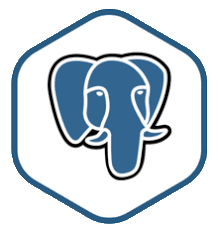
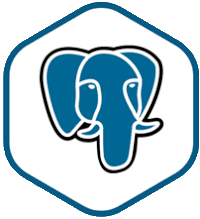
cambio iconos y efecto hover

diff --git a/styles.css b/styles.css
@@ -1,144 +1,20 @@
-/* body {
-background-color:#5a5a5a;
-margin: 0 0 0 0;
-
-}
-.personal_info{
-margin-left:5%;
-width: 30%;
-height:90vh;
-background-color: aqua;
-margin-right: 0%;
-margin-top: 5vh;
-border:10px;
-
-}
-
-.photo{
-background-color: rgb(32, 170, 32);
-padding-bottom: 45vh;
-}
-.info_text{
-background-color: blue;
-padding-bottom: 35%;
-}
-
-/*.hexagon {
-  position: relative;
-  width: 30vh;
-  height: 15vh;
-  background-color: #64C7CC;
-  margin: 86.60px 0;
-  }
-  
-  .hexagon:before,
-  .hexagon:after {
-    content: "";
-    position: absolute;
-    width: 0;
-    border-left: 15vh solid transparent;
-    border-right: 15vh solid transparent;
-  }
-  
-  .hexagon:before {
-    bottom: 100%;
-    border-bottom: 7.5vh solid #64C7CC;
-  }
-  
-  .hexagon:after {
-    top: 100%;
-    width: 0;
-    border-top: 7.5vh solid #64C7CC;
-  }
-
-.hx{
-margin: 0%;
-
-}
-.hexagon{
-background-color: aqua;
-width: 100px;
-height: 25vh;
-}
-.text{
-list-style: none;
-text-align: center;
-padding-inline-start: 0px;
-margin-top: auto;
-padding-top: 10%;
-
-}
-.text li{
-  margin-bottom: 10%;
-
-
-}
-
-.hx{
-position: absolute;
-top:38%;
-left:50%;
-margin;0;
-padding:0;
-
-}
-.hx li{
-list-style: none;
-position: absolute
-}
-ul li.it1{
-top:-30vh;
-left: -15vh;
[1 lines of base64/hex data omitted]
-}
-ul li.it2{
-  top: -30vh;
-  left: 16vh;
-}
-ul li.it3{
-  top: -30vh;
-  left:47vh;
-}
-
-ul li.it4{
-  top: -6.5vh;
-  left: 0.5vh;
-}  
-ul li.it5{
-  top: -6.5vh;
-  left:31.5vh;  
-}
-
-ul li.it6{
-  top: 17vh;
-  left:-15vh;
-}
-ul li.it7{
-  top: 17vh;
-  left:16vh;
-}
-ul li.it8{
-  top: 17vh;
-  left:47vh;
-}*/
-
-body{
+body{
 
 
 }
 .container{
-margin: 20px auto;
+margin: 10px auto;
 display: grid;
-grid-gap: 20px;
-grid-template-columns: repeat(3,1fr);
+grid-gap: 30px;
+grid-template-columns:25% 32.5% 32.5%;
 width: 100%;
-height: 600px;
+height:300px;
 
 }
 .container >div,
 .container .personal_info,
 .container .items{
-background:blue;
+background:none;
 
 }
 
@@ -151,36 +27,97 @@ grid-column-end: 2;
 .container .items{
   grid-column: span 2;
   grid-row: span 2;
+  place-items: center;
 
 }
 .personal_info{
   display: grid;
   grid-template-rows: repeat(2,1fr);
   grid-row: span 2;
+  border: 2px solid darkturquoise;
+  border-radius: 5px;
 }
 
 
 .photo{
  grid-row: span 1;
-  background: chartreuse;
+  background: none;
+  height:100px;
+
 }
 .info_text{
   grid-row: span 1;
   background: white;
+  display: grid;
+  grid-template-rows: 50% 50%;
+}
+.text{ 
+  list-style: none;
+  text-align: center;
+  display: initial;
 }
 
 .items{
+  margin-top: 2%;
 display: grid;
-grid-template-rows: repeat(3,1fr);
+grid-template-rows: repeat(2,1fr);
 grid-template-columns: repeat(3,1fr);
-grid-gap: 10px;
+grid-gap: 20px;
+
+
 }
 .image{
-
+  width: 100%;
   display: block;
+  object-fit: cover;
+  place-items: center;
+}
+.personal_image{
+  align-items: center; 
+  justify-content: center;;
+ width: 100%;
+
+ border-top-left-radius: 3px;
+ border-top-right-radius: 3px;
+
+}
+.others{
+background-color: blueviolet;
+border-radius: 10px;
+}
+
+
+.overlay {
+  position: absolute;
+  background-color: #05FFD0;
+  overflow: hidden;
   width: 100%;
   height: 100%;
-  object-fit: cover;
+  -webkit-transform: scale(0);
+  -ms-transform: scale(0);
+  transform: scale(0);
+  -webkit-transition: .3s ease;
+  transition: .3s ease;
+}
 
+.cont_hover:hover .overlay {
+  -webkit-transform: scale(1);
+  -ms-transform: scale(1);
+  transform: scale(1);
+ 
+}
+.cont_hover{
+  position: relative;
+}
+.item_text{
+  color: black;
+  font-size: 20px;
+  position: absolute;
+  top: 50%;
+  left: 50%;
+  -webkit-transform: translate(-50%, -50%);
+  -ms-transform: translate(-50%, -50%);
+  transform: translate(-50%, -50%);
+  text-align: center;
 
 }

diff --git a/yirox_page.html b/yirox_page.html
@@ -14,11 +14,11 @@
 <body>
     <div class="container">
     <div class="personal_info">
-        <div class="photo">
+        <div class="photo"><img src="jairo.jpg" class="personal_image">
         
         </div>
         <div class="info_text">
-            <ul class="text">
+            <div class="text">
                 <li> JAIRO ALONSO RINCON DIAZ
                 </li>
                 <li>jairo50333@gmail.com
@@ -27,28 +27,23 @@
                 </li>
                 <li>
                     Ingenieria de software
-
                 </li>
 
-            </ul>
-
+            </div>
+            <div class= "others"></div>
         </div>
        
     </div>
 
 <div class="items">
-<div class="it1"><div class="hexagon"><img src="js.png" class="image"></div></div>
-<div class="it1"><div class="hexagon"><img src="css.png" class="image"></div></div>
-<div class="it1"><div class="hexagon"><img src="html.png" class="image"></div></div>
-<div class="it1"><div class="hexagon"><img src="Csharp.png" class="image"></div></div>
-<div class="it1"><div class="hexagon"><img src="postgresql.png" class="image"></div></div>
-<div class="it1"><div class="hexagon"><img src="c++.png" class="image"></div></div>
-<div class="it1"><div class="hexagon"></div></div>
-<div class="it1"><div class="hexagon"></div></div>
+<div class="cont_hover"> <div class="overlay"><div class="item_text">hola</div></div><img src="js.png" class="image"></div>
+<div class="cont_hover"> <div class="overlay"><div class="item_text">bebe</div></div><img src="css.png" class="image"></div>
+<div class="cont_hover"> <div class="overlay"><div class="item_text">pasaba por aqui</div></div><img src="html.png" class="image"></div>
+<div class="cont_hover"> <div class="overlay"><div class="item_text">para </div></div><img src="Csharp.png" class="image"></div>
+<div class="cont_hover"> <div class="overlay"><div class="item_text">recordarte que</div></div><img src="postgresql.png" class="image"></div>
+<div class="cont_hover"> <div class="overlay"><div class="item_text">TE AMO</div></div><img src="c++.png" class="image"></div>
 
-</div>  
-
-    <script src="js/main.js"></script>
-    
+    </div>
 </body>
 </html>
+
